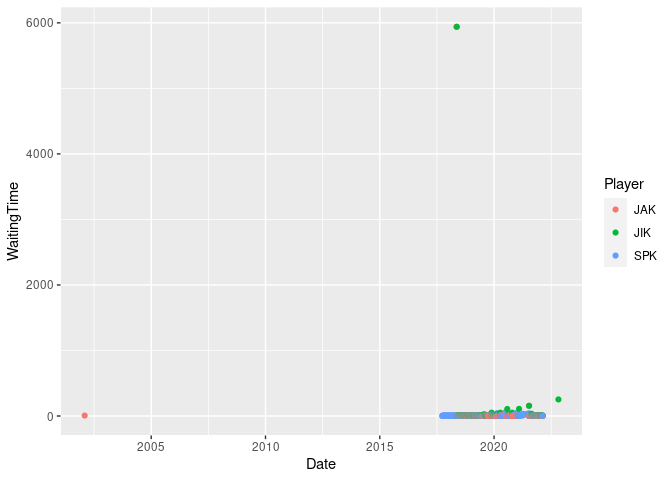
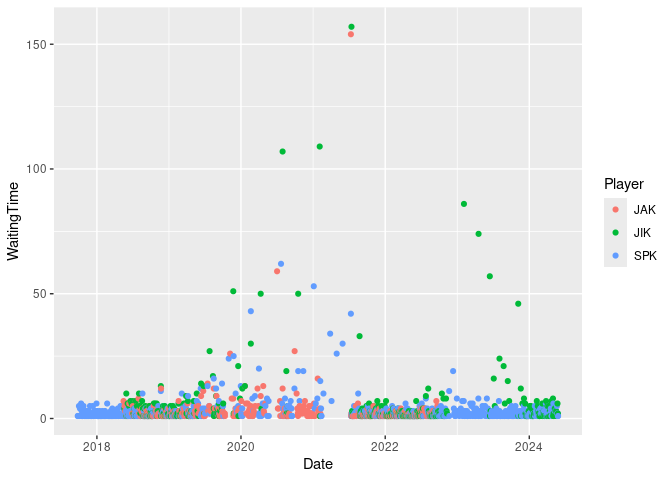
Added new observations

diff --git a/analysis/nyt_mini_crossword.md b/analysis/nyt_mini_crossword.md
@@ -1,7 +1,7 @@
 ---
 title: "New York Time Mini Crossword"
 author: "Stephen Kaluzny"
-date: "15 February, 2022"
+date: "27 May, 2024"
 output:
   html_document: 
     keep_md: yes
@@ -32,7 +32,7 @@ We explicitly install the required R packages from CRAN if they
 are not already available.
 
 
-```r
+``` r
 if(!requireNamespace("dplyr", quietly=TRUE)) {
   install.packages("dplyr")
 }
@@ -66,7 +66,7 @@ The `here` package allows us to find files (in this case the raw data file)
 anywhere within the project tree.
 
 
-```r
+``` r
 d <- read.csv(here::here("data", "nyt.csv"), stringsAsFactors=FALSE)
 ```
 
@@ -75,7 +75,7 @@ The `WeekDay` is then computed from `DateTime`.
 The puzzle time (`Time`) was recorded as minutes:seconds,
 we convert that to a numeric `Seconds` variable.
 
-```r
+``` r
 d$Date <- as.Date(d$Date)
 d$DateTime <- as.POSIXct(with(d,
   paste(Date, ifelse(is.na(TimeOfDay), "00:00", TimeOfDay))))
@@ -85,14 +85,9 @@ d$TimeOfDay <- hms::parse_hm(d$TimeOfDay)
 d$Seconds <- with(d, as.numeric(lubridate::seconds(lubridate::ms(Time))))
 ```
 
-```
-## Warning in .parse_hms(..., order = "MS", quiet = quiet): Some strings failed to
-## parse, or all strings are NAs
-```
-
 Compute the time interval, in days, between puzzle playing by `Player`.
 
-```r
+``` r
 d <- d %>%
   group_by(Player) %>%
   arrange(Date) %>%
@@ -109,7 +104,7 @@ data entry errors have occurred.
 First, set some values that are expected in the data:
 
 
-```r
+``` r
 # Current list of players:
 players <- c("SPK", "JAK", "JIK", "BBK", "SKK", "AKK", "MBH")
 # Earliest date:
@@ -120,18 +115,18 @@ time_bound <- 700
 
 Check that Player is one of 5 possible values:
 
-```r
+``` r
 d %>% assert(in_set(players), Player, success_fun=success_logical,
   error_fun=error_logical)
 ```
 
 ```
-## [1] TRUE
+## [1] FALSE
 ```
 
 There should be no missing values in the data:
 
-```r
+``` r
 d %>% assert(not_na, DateTime, WeekDay, Seconds) %>% success_logical()
 ```
 
@@ -141,7 +136,7 @@ d %>% assert(not_na, DateTime, WeekDay, Seconds) %>% success_logical()
 
 Only one observation per player per date:
 
-```r
+``` r
 d %>% group_by(Date) %>% count(Player) %>% verify(n == 1) %>% success_logical()
 ```
 
@@ -151,7 +146,7 @@ d %>% group_by(Date) %>% count(Player) %>% verify(n == 1) %>% success_logical()
 
 Check for proper time values:
 
-```r
+``` r
 d %>% assertr::verify(Seconds > 0 & Seconds < time_bound,
   success_fun=success_logical, error_fun=error_logical)
 ```
@@ -162,7 +157,7 @@ d %>% assertr::verify(Seconds > 0 & Seconds < time_bound,
 
 Check range of dates
 
-```r
+``` r
 first_date <- as.Date("2017-09-25")
 today <- Sys.Date()
 d %>% 
@@ -171,31 +166,33 @@ d %>%
 ```
 
 ```
-## [1] FALSE
+## [1] TRUE
 ```
 
 ## Summary Statistics
 
-Current data set has 1431 observations.
+Current data set has 2361 observations.
 
 
-```r
+``` r
 d %>% group_by(Player) %>%
   summarise(Mean = mean(Seconds), Median = median(Seconds), Min = min(Seconds), Max = max(Seconds), N=n()) %>%
   arrange(Median)
 ```
 
 ```
-## # A tibble: 7 × 6
+## # A tibble: 9 × 6
 ##   Player  Mean Median   Min   Max     N
 ##   <chr>  <dbl>  <dbl> <dbl> <dbl> <int>
 ## 1 SKK     60.1     45    21   146     7
-## 2 AKK     55       55    55    55     1
-## 3 SPK    101.      83    18   455   542
-## 4 JAK    108.      87    27   818   509
-## 5 BBK    114.     102    42   350    73
-## 6 MBH    378.     362   140   770    13
-## 7 JIK     NA       NA    NA    NA   286
+## 2 JIK     63.6     52    12   264   538
+## 3 AKK     55       55    55    55     1
+## 4 SPK     94.9     79    16   455   982
+## 5 MC     161.      87    74   432     5
+## 6 DJK    116.      94    71   244     5
+## 7 JAK    122.      95    27   849   659
+## 8 BBK    113.     102    42   350    76
+## 9 MBH    220.     164    51   827    88
 ```
 
 ## Subset the Data
@@ -205,27 +202,23 @@ Subset the data by only working with observations from
 Other players do not have enough observations to analyze.
 
 
-```r
+``` r
 d <- d %>%
   filter(Player %in% c("SPK", "JAK", "JIK"))
 ```
 
-Now have 1337 observations.
+Now have 2179 observations.
 
 ## Plots
 
 An Initial plot of the data.
 
 
-```r
+``` r
 d %>%
   ggplot(aes(x=WeekDay, y=Seconds)) +
     geom_jitter(position = position_jitter(width=.3)) +
     ggtitle("Time vs Day of the Week")
-```
-
-```
-## Warning: Removed 1 rows containing missing values (geom_point).
 ```
 
 ![](nyt_mini_crossword_files/figure-html/plot01-1.png)<!-- -->
@@ -233,45 +226,37 @@ d %>%
 Same plot with player identified.
 
 
-```r
+``` r
 d %>%
   ggplot(aes(x=WeekDay, y=Seconds, color=Player)) +
     geom_jitter(position = position_jitter(width=.3)) +
     ggtitle("Time vs Day of the Week")
 ```
 
-```
-## Warning: Removed 1 rows containing missing values (geom_point).
-```
-
 ![](nyt_mini_crossword_files/figure-html/plot02-1.png)<!-- -->
 
 The distribution of the times, summarised in a boxplot:
-
-
-```
-## Warning: Removed 1 rows containing non-finite values (stat_boxplot).
-```
 
 ![](nyt_mini_crossword_files/figure-html/plot03-1.png)<!-- -->
 
 ## Days Between Puzzles
 
 
-```r
+``` r
 d %>%
   ggplot(aes(x=Date, y=WaitingTime, color=Player)) +
     geom_point()
 ```
 
 ```
-## Warning: Removed 3 rows containing missing values (geom_point).
+## Warning: Removed 3 rows containing missing values or values outside the scale range
+## (`geom_point()`).
 ```
 
 ![](nyt_mini_crossword_files/figure-html/plot04-1.png)<!-- -->
 
 
-```r
+``` r
 d %>%
   ggplot(aes(x=Date, y=WaitingTime)) +
     geom_point() +
@@ -279,7 +264,8 @@ d %>%
 ```
 
 ```
-## Warning: Removed 3 rows containing missing values (geom_point).
+## Warning: Removed 3 rows containing missing values or values outside the scale range
+## (`geom_point()`).
 ```
 
 ![](nyt_mini_crossword_files/figure-html/plot05-1.png)<!-- -->
@@ -291,7 +277,7 @@ It could also contain an entry for "JIK".
 The `d2` object selects the observations with "SPKJAK" set and
 then only keeps those where `Player` is "SPK" or "JAK".
 
-```r
+``` r
 # spkjak -----
 spkjak <- function(x) {
   m <- match(c("SPK","JAK"), x, nomatch=-1)
@@ -307,14 +293,14 @@ d2 <- group_by(d, Date) %>%
   filter(SPKJAK == "SPKJAK", Player %in% c("SPK", "JAK"))
 ```
 
-```r
+``` r
 d2 %>% filter(Player %in% c("SPK", "JAK")) %>%
   ggplot(aes(x=Date, y=Seconds, color=Player)) + geom_point()
 ```
 
 ![](nyt_mini_crossword_files/figure-html/spk_and_jak-1.png)<!-- -->
 
-```r
+``` r
 d3 <- d2 %>% select(Date, Player, Seconds) %>%
   group_by(Date) %>%
   spread(key=Player, value=Seconds) %>%
@@ -326,18 +312,18 @@ Knowing the versions of R and the packages used in an analysis is
 an important part of reproducibility.
 The `sessionInfo` function will show this.
 
-```r
+``` r
 sessionInfo()
 ```
 
 ```
-## R version 4.1.2 (2021-11-01)
-## Platform: x86_64-pc-linux-gnu (64-bit)
-## Running under: Ubuntu 20.04.3 LTS
+## R version 4.4.0 (2024-04-24)
+## Platform: x86_64-pc-linux-gnu
+## Running under: Ubuntu 20.04.6 LTS
 ## 
 ## Matrix products: default
-## BLAS:   /home/R/R-4.1.2/lib/R/lib/libRblas.so
-## LAPACK: /home/R/R-4.1.2/lib/R/lib/libRlapack.so
+## BLAS:   /home/R/R-4.4.0/lib/R/lib/libRblas.so 
+## LAPACK: /home/R/R-4.4.0/lib/R/lib/libRlapack.so;  LAPACK version 3.12.0
 ## 
 ## locale:
 ##  [1] LC_CTYPE=en_US.UTF-8       LC_NUMERIC=C              
@@ -347,23 +333,25 @@ sessionInfo()
 ##  [9] LC_ADDRESS=C               LC_TELEPHONE=C            
 ## [11] LC_MEASUREMENT=en_US.UTF-8 LC_IDENTIFICATION=C       
 ## 
+## time zone: America/Los_Angeles
+## tzcode source: system (glibc)
+## 
 ## attached base packages:
 ## [1] stats     graphics  grDevices utils     datasets  methods   base     
 ## 
 ## other attached packages:
-## [1] ggplot2_3.3.5 dplyr_1.0.8   tidyr_1.2.0   assertr_2.8  
+## [1] ggplot2_3.5.1 dplyr_1.1.4   tidyr_1.3.1   assertr_3.0.1
 ## 
 ## loaded via a namespace (and not attached):
-##  [1] highr_0.9        pillar_1.7.0     bslib_0.3.1      compiler_4.1.2  
-##  [5] jquerylib_0.1.4  tools_4.1.2      digest_0.6.29    lubridate_1.8.0 
-##  [9] jsonlite_1.7.3   evaluate_0.14    lifecycle_1.0.1  tibble_3.1.6    
-## [13] gtable_0.3.0     pkgconfig_2.0.3  rlang_1.0.1      cli_3.2.0       
-## [17] DBI_1.1.2        yaml_2.2.2       xfun_0.29        fastmap_1.1.0   
-## [21] withr_2.4.3      stringr_1.4.0    knitr_1.37       hms_1.1.1       
-## [25] generics_0.1.2   vctrs_0.3.8      sass_0.4.0       rprojroot_2.0.2 
-## [29] grid_4.1.2       tidyselect_1.1.1 here_1.0.1       glue_1.6.1      
-## [33] R6_2.5.1         fansi_1.0.2      rmarkdown_2.11   farver_2.1.0    
-## [37] purrr_0.3.4      magrittr_2.0.2   scales_1.1.1     ellipsis_0.3.2  
-## [41] htmltools_0.5.2  assertthat_0.2.1 colorspace_2.0-2 labeling_0.4.2  
-## [45] utf8_1.2.2       stringi_1.7.6    munsell_0.5.0    crayon_1.5.0
+##  [1] gtable_0.3.5      jsonlite_1.8.8    highr_0.11        compiler_4.4.0   
+##  [5] tidyselect_1.2.1  jquerylib_0.1.4   scales_1.3.0      yaml_2.3.8       
+##  [9] fastmap_1.2.0     here_1.0.1        R6_2.5.1          labeling_0.4.3   
+## [13] generics_0.1.3    knitr_1.46        tibble_3.2.1      rprojroot_2.0.4  
+## [17] munsell_0.5.1     lubridate_1.9.3   bslib_0.7.0       pillar_1.9.0     
+## [21] rlang_1.1.3       utf8_1.2.4        cachem_1.1.0      xfun_0.44        
+## [25] sass_0.4.9        timechange_0.3.0  cli_3.6.2         withr_3.0.0      
+## [29] magrittr_2.0.3    digest_0.6.35     grid_4.4.0        hms_1.1.3        
+## [33] lifecycle_1.0.4   vctrs_0.6.5       evaluate_0.23     glue_1.7.0       
+## [37] farver_2.1.2      fansi_1.0.6       colorspace_2.1-0  rmarkdown_2.27   
+## [41] purrr_1.0.2       tools_4.4.0       pkgconfig_2.0.3   htmltools_0.5.8.1
 ```
